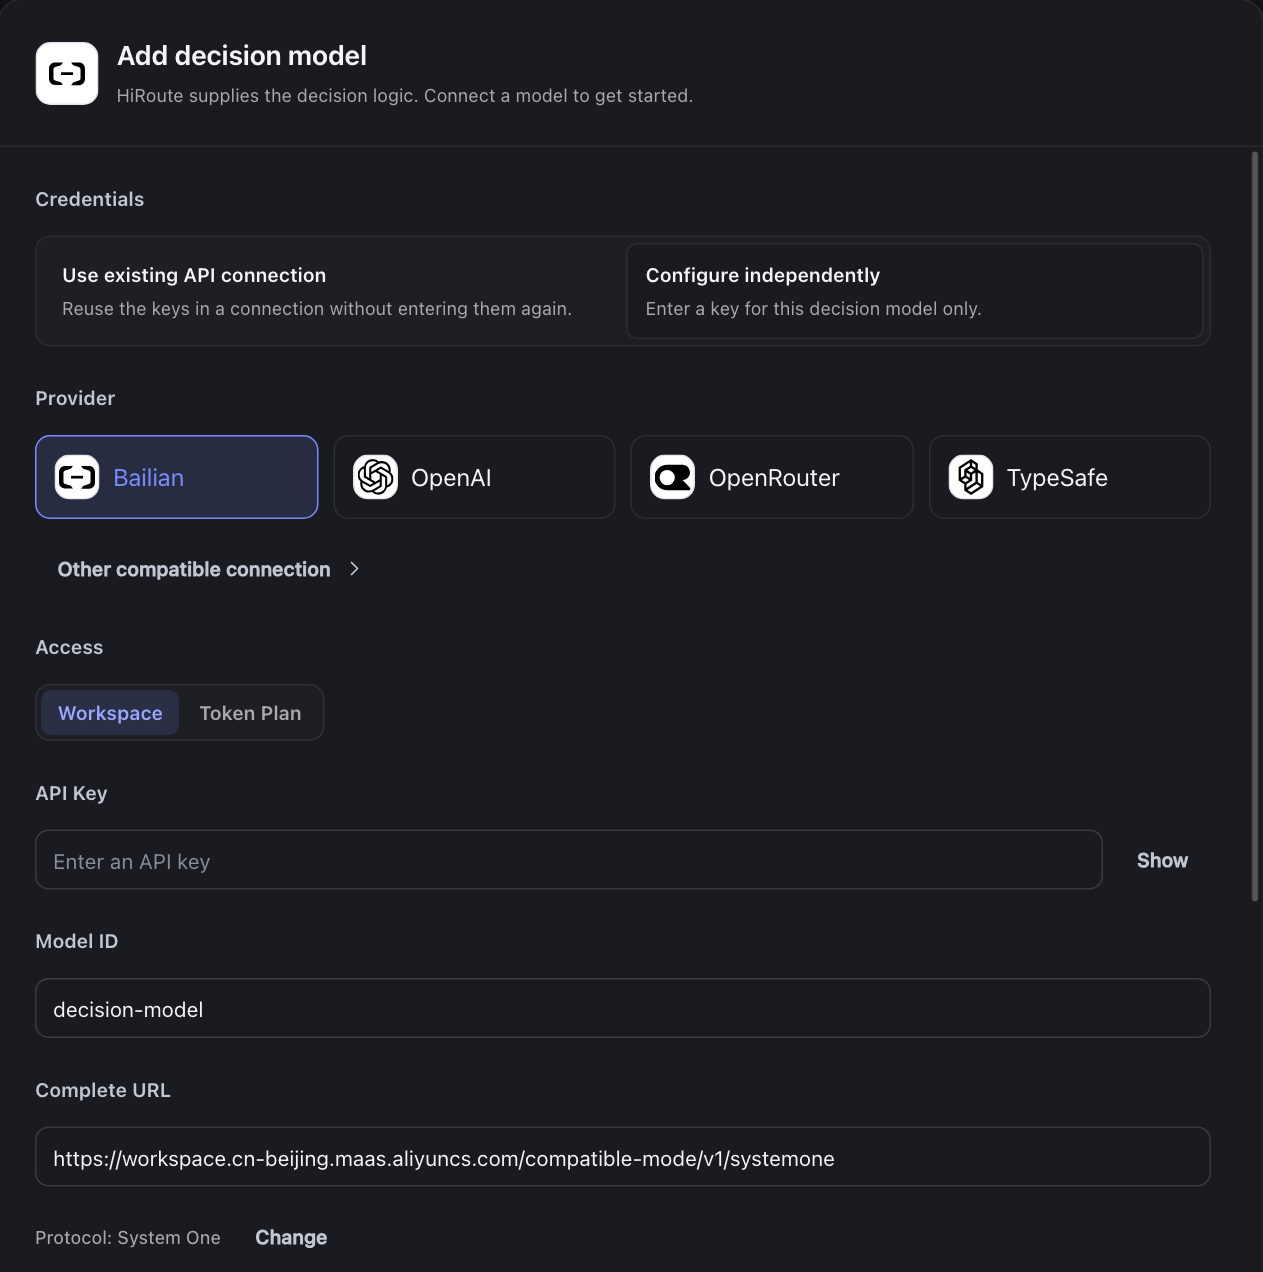
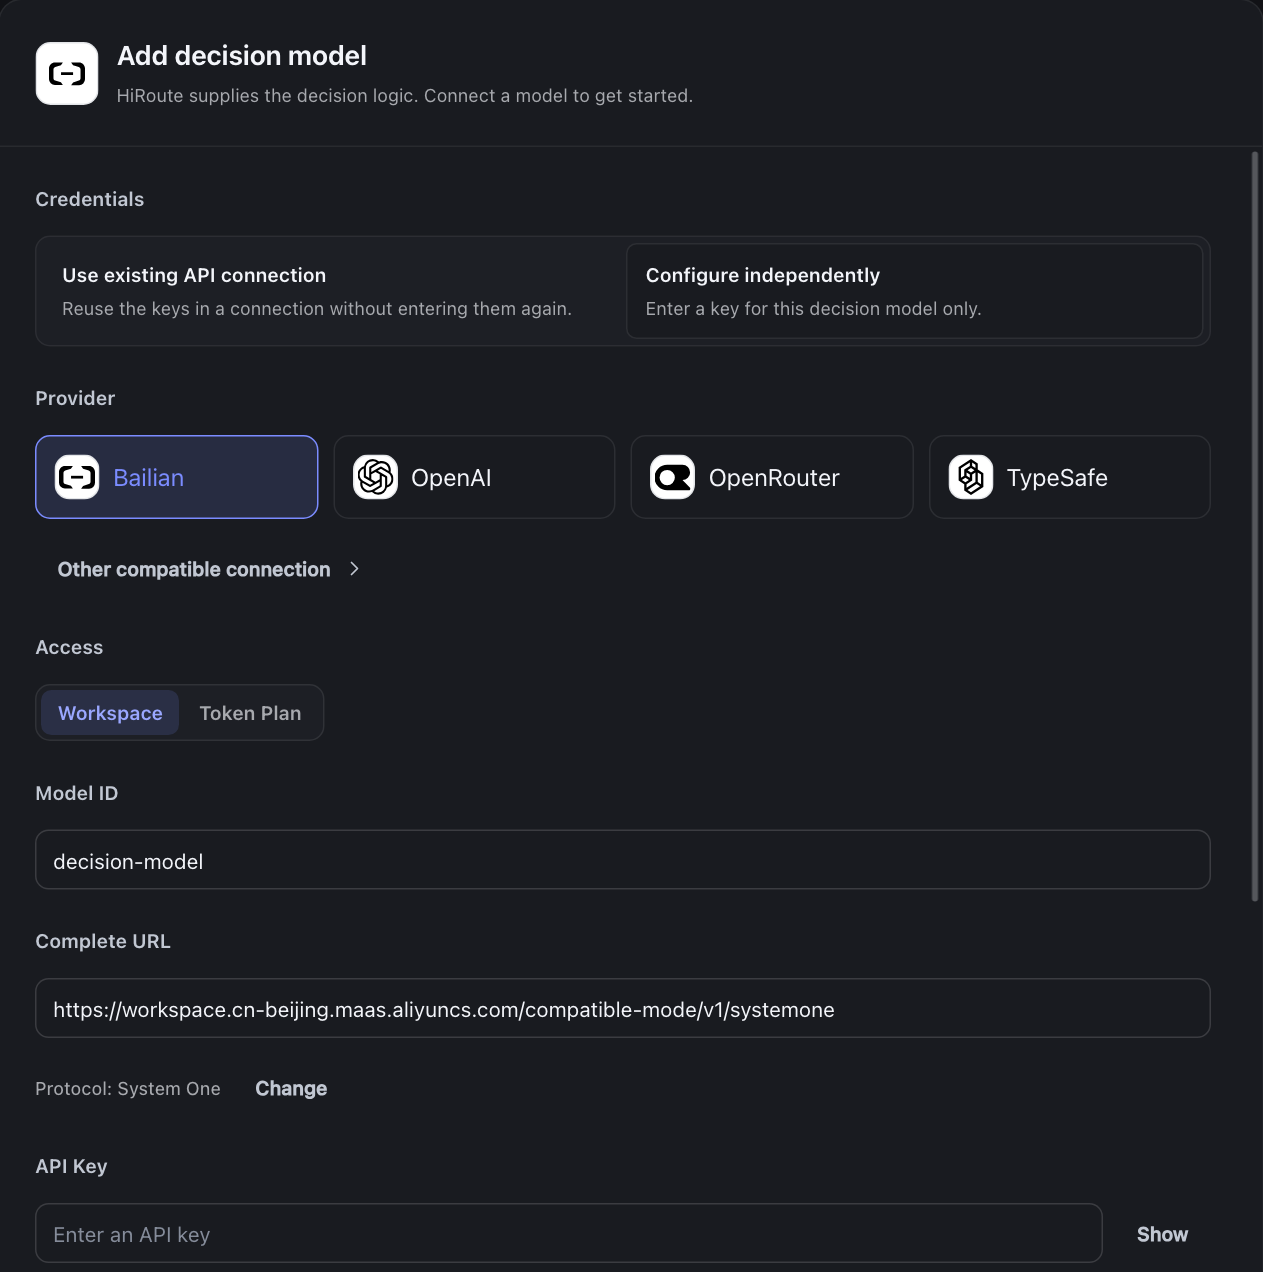
Place the workspace URL before its origin-scoped API key

diff --git a/apps/desktop/src/features/decision-services/DecisionModelForm.tsx b/apps/desktop/src/features/decision-services/DecisionModelForm.tsx
@@ -145,18 +145,20 @@ export function DecisionModelForm({ initial, saved, view, revision, sources, lan
     </div>}
   </>;
 
+  const credentialField = <div className="field"><label className="field-label" htmlFor="decision-credential">API Key</label>
+    {retained && !replacing && <div className="decision-credential-saved"><UiIcon name="lock" /><span>{t('已配置', 'Configured')}</span><button className="btn btn-quiet" type="button" onClick={() => { setReplacing(true); requestAnimationFrame(() => secret.current?.focus()); }}>{t('更换', 'Replace')}</button></div>}
+    <SecretTransportWarning language={language} />
+    <div className="decision-secret-input" hidden={!!retained && !replacing}><input ref={secret} id="decision-credential" data-native-field="credential" className="input" type={revealed ? 'text' : 'password'} autoComplete="new-password" maxLength={32768} aria-invalid={!!issues.credential} placeholder={t('输入 API Key', 'Enter an API key')} onChange={event => { setHasSecret(!!event.target.value); setCredentialNotice(''); setIssues({}); }} /><button className="btn btn-quiet" type="button" aria-pressed={revealed} onClick={() => setRevealed(!revealed)}>{revealed ? t('隐藏', 'Hide') : t('显示', 'Show')}</button></div>
+    {replacing && retained && <button className="btn btn-quiet" type="button" onClick={() => clearSecret()}>{t('保留已保存的 Key', 'Keep saved key')}</button>}
+    {fieldError('credential')}
+  </div>;
+
   const independentPanel = preset && <>
     <div className="field"><span className="field-label">{t('供应商', 'Provider')}</span><div className="decision-providers" role="group" aria-label={t('供应商', 'Provider')}>
       {['bailian-workspace', 'openai', 'openrouter', 'typesafe'].map(id => <button className="decision-provider" type="button" key={id} aria-pressed={id.startsWith('bailian') ? preset.startsWith('bailian') : preset === id} onClick={() => { if (!(id.startsWith('bailian') && preset.startsWith('bailian')) && id !== preset) switchContext(chooseProvider(draft, id)); }}><DecisionIcon provider={id} language={language} /><span>{id.startsWith('bailian') ? t('百炼', 'Bailian') : presetName(id, language)}</span></button>)}
     </div><button className="btn btn-quiet decision-compatible" type="button" aria-pressed={preset === 'compatible'} onClick={() => { if (preset !== 'compatible') switchContext(chooseProvider(draft, 'compatible')); }}>{t('其他兼容接入', 'Other compatible connection')}<UiIcon name="chevronRight" /></button></div>
     {preset.startsWith('bailian') && <div className="field"><span className="field-label">{t('接入方式', 'Access')}</span><div className="segmented" role="group" aria-label={t('百炼接入方式', 'Bailian access')}>{independentPresets.filter(p => p.id.startsWith('bailian')).map(item => <button type="button" key={item.id} className={'segment' + (preset === item.id ? ' active' : '')} aria-pressed={preset === item.id} onClick={() => { if (preset !== item.id) switchContext(chooseProvider(draft, item.id)); }}>{item.id === 'bailian-token-plan' ? 'Token Plan' : t('业务空间', 'Workspace')}</button>)}</div></div>}
-    <div className="field"><label className="field-label" htmlFor="decision-credential">API Key</label>
-      {retained && !replacing && <div className="decision-credential-saved"><UiIcon name="lock" /><span>{t('已配置', 'Configured')}</span><button className="btn btn-quiet" type="button" onClick={() => { setReplacing(true); requestAnimationFrame(() => secret.current?.focus()); }}>{t('更换', 'Replace')}</button></div>}
-      <SecretTransportWarning language={language} />
-      <div className="decision-secret-input" hidden={!!retained && !replacing}><input ref={secret} id="decision-credential" data-native-field="credential" className="input" type={revealed ? 'text' : 'password'} autoComplete="new-password" maxLength={32768} aria-invalid={!!issues.credential} placeholder={t('输入 API Key', 'Enter an API key')} onChange={event => { setHasSecret(!!event.target.value); setCredentialNotice(''); setIssues({}); }} /><button className="btn btn-quiet" type="button" aria-pressed={revealed} onClick={() => setRevealed(!revealed)}>{revealed ? t('隐藏', 'Hide') : t('显示', 'Show')}</button></div>
-      {replacing && retained && <button className="btn btn-quiet" type="button" onClick={() => clearSecret()}>{t('保留已保存的 Key', 'Keep saved key')}</button>}
-      {fieldError('credential')}
-    </div>
+    {preset !== 'bailian-workspace' && credentialField}
   </>;
 
   return <form ref={form} noValidate className="decision-connection-form" onSubmit={event => { event.preventDefault(); void submit(true); }}>
@@ -189,6 +191,7 @@ export function DecisionModelForm({ initial, saved, view, revision, sources, lan
             {fieldError('wire_protocol')}
             {draft.mode === 'shared' && source?.endpoint_host && host && host !== source.endpoint_host && <p className="field-help decision-host-note" role="note">{t(`这个地址的主机（${host}）与 API 接入（${source.endpoint_host}）不同。调用时会向这个地址发送接入中的 Key。`, `This address’s host (${host}) differs from the API connection (${source.endpoint_host}). Calls send the connection’s key to this address.`)}</p>}
           </div>
+          {preset === 'bailian-workspace' && credentialField}
           {draft.mode === 'shared' && source && !rebind && <InheritedSourceNetwork key={source.source_id} sourceId={source.source_id} target={{ kind: 'draft', endpoint_url: bundle.endpoint }} refreshKey={source.revision ?? 0} language={language} mutable={mutable && !busy && source.state !== 'missing'} onDirty={networkChanged} onSaved={onRetrySources} />}
           {suggestion && !sameBundle(bundle, suggestion) && (suggestion.model || suggestion.endpoint) && <button className="btn btn-quiet decision-suggested" type="button" onClick={() => update(resetToSuggested(draft, source))}><UiIcon name="refresh" />{t('使用建议设置', 'Use suggested settings')}</button>}
           <DecisionContextSettings bundle={bundle} view={view} language={language} refreshKey={contextRefresh} onChange={context => { setDraft(editBundle(draft, source, { context })); setIssues({}); }} onPreview={setContextPreview} />

diff --git a/apps/website/content/guides/model-routing.en.md b/apps/website/content/guides/model-routing.en.md
@@ -56,7 +56,7 @@ Models → General models manages models that execute your tasks. Models → Dec
 ## 2. Connect a decision model for judgments and scores
 
 1. Open Models → Decision models and select Add decision model.
-2. Choose a source under Credentials. Use existing API connection reuses the keys of a connection saved under Models, without entering them again. Configure independently asks you to choose a provider and enter a key for this decision model only. Selecting Bailian opens Workspace with `decision-model` filled in. Choose Token Plan to use its `decision-model-preview` preset. Other providers include OpenAI, OpenRouter, TypeSafe, and Other compatible connection.
+2. Choose a source under Credentials. Use existing API connection reuses the keys of a connection saved under Models, without entering them again. Configure independently asks you to choose a provider and enter a key for this decision model only. Selecting Bailian opens Workspace with `decision-model` filled in. Enter the full workspace URL, then its API key. Choose Token Plan to use its `decision-model-preview` preset. Other providers include OpenAI, OpenRouter, TypeSafe, and Other compatible connection.
 3. Confirm the model ID, complete URL and protocol, then enter a name. Select Change to edit a prefilled value, or fill in any missing values.
 4. Select Save and test, or Save only and later Test connection in the saved details.
 

diff --git a/apps/website/content/guides/model-routing.zh.md b/apps/website/content/guides/model-routing.zh.md
@@ -56,7 +56,7 @@ CLI 参考：https://hiroute.ai/zh/docs/cli/
 ## 2. 需要判断与评分时，连接决策模型
 
 1. 打开“模型 → 决策模型”，选择“添加决策模型”。
-2. 在“凭据”中选择来源。“使用已有 API 接入”复用“模型”中已保存接入的 Key，无需再次填写；“独立配置”需要先选择供应商，再为决策模型单独填写 Key。选择百炼会默认打开业务空间，并填入 `decision-model`。使用 Token Plan 时，切换接入方式即可填入对应的 `decision-model-preview`。也可选择 OpenAI、OpenRouter、TypeSafe 或“其他兼容接入”。
+2. 在“凭据”中选择来源。“使用已有 API 接入”复用“模型”中已保存接入的 Key，无需再次填写；“独立配置”需要先选择供应商，再为决策模型单独填写 Key。选择百炼会默认打开业务空间，并填入 `decision-model`。先填写工作空间的完整地址，再填该空间的 API Key。使用 Token Plan 时，切换接入方式即可填入对应的 `decision-model-preview`。也可选择 OpenAI、OpenRouter、TypeSafe 或“其他兼容接入”。
 3. 确认模型 ID、完整地址和协议，并填写名称。已有预填可选择“更改”修改，未预填则直接填写。
 4. 选择“保存并测试”，或先“仅保存”，再在详情中选择“测试连接”。
 

diff --git a/news/2026-11-27-bailian-stable-decision.en.md b/news/2026-11-27-bailian-stable-decision.en.md
@@ -255,7 +255,7 @@ Every number in the two accuracy tables above is printed directly by this script
 
 1. Open Models → Decision models and select Add decision model.
 2. Under Credentials, choose Configure independently and pick Bailian. The access type defaults to Workspace. You can also choose Use existing API connection to reuse a saved Bailian key.
-3. Confirm that the model ID is `decision-model`, then enter the complete URL of your Beijing or Singapore workspace, ending in `/compatible-mode/v1/systemone`.
+3. Confirm that the model ID is `decision-model`, then enter the complete URL of your Beijing or Singapore workspace, ending in `/compatible-mode/v1/systemone`. For independent setup, enter the workspace API key below the URL.
 4. Select Save and test. Then select this connection revision in a Difficulty routing plan and publish it.
 
 ![Add decision model form with Bailian and Workspace selected, decision-model as the model ID, and System One as the protocol](assets/bailian-stable-workspace-en.png)

diff --git a/news/2026-11-27-bailian-stable-decision.zh-CN.md b/news/2026-11-27-bailian-stable-decision.zh-CN.md
@@ -254,7 +254,7 @@ python3 experiments/results/bailian-decision-20261127/compare.py
 
 1. 打开“模型 → 决策模型”，选择“添加决策模型”。
 2. 在“凭据”里选择“独立配置”，供应商选百炼，接入方式默认为“业务空间”；也可以选“使用已有 API 接入”，复用已经保存的百炼 Key。
-3. 确认模型 ID 为 `decision-model`，再填写北京或新加坡工作空间的完整地址，以 `/compatible-mode/v1/systemone` 结尾。
+3. 确认模型 ID 为 `decision-model`，再填写北京或新加坡工作空间的完整地址，以 `/compatible-mode/v1/systemone` 结尾。使用独立配置时，在地址下方填写该工作空间的 API Key。
 4. 选择“保存并测试”。然后在按难度分流的路由计划里选中这个连接版本，发布后生效。
 
 ![添加决策模型表单，已选百炼和业务空间，模型 ID 为 decision-model，协议为 System One](assets/bailian-stable-workspace-zh.png)
